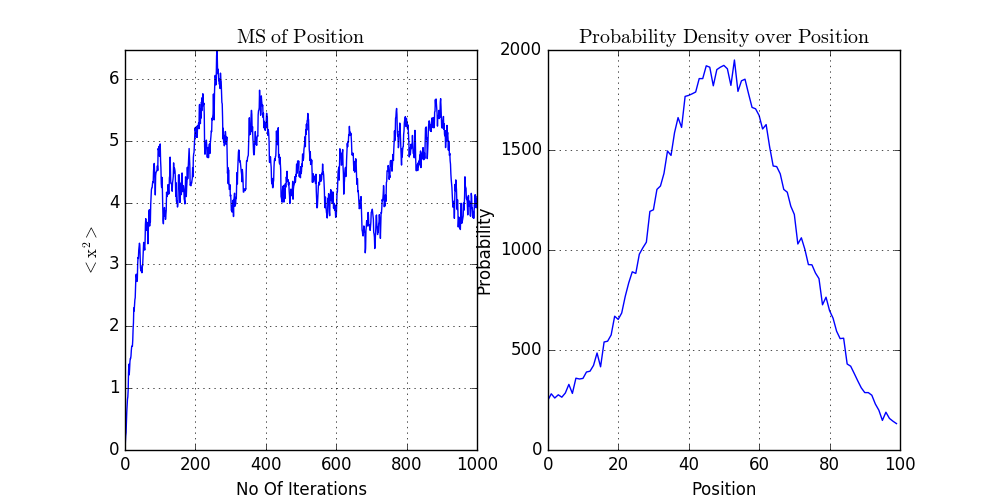
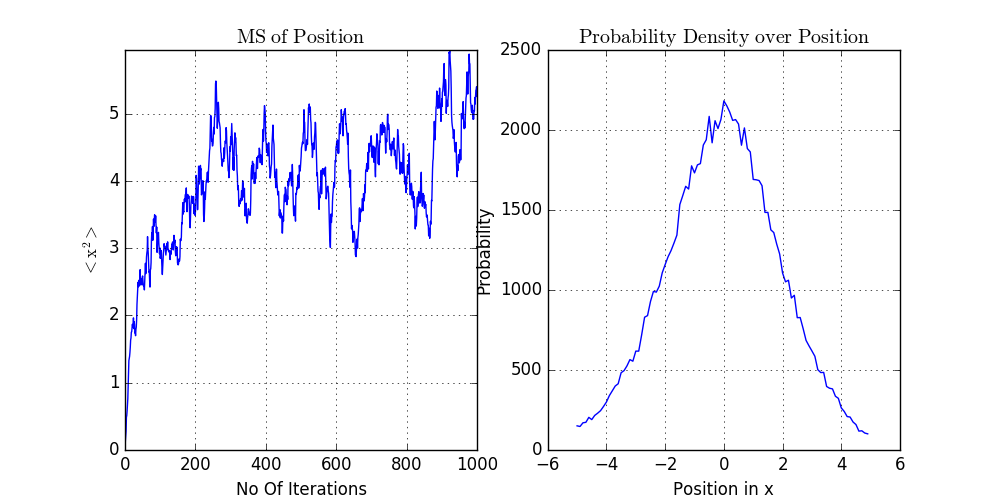
Corrections and Updates

diff --git a/PIMC.py b/PIMC.py
@@ -64,12 +64,12 @@ def render_plots(path,ensemble_pdf,ms):
 
     #Histogram of the probability density
     plt.subplot(fs[1])
-    plt.xlabel('Position')
+    plt.xlabel('Position in x')
     plt.ylabel('Probability')
     plt.title(r'$\mathrm{Probability\ Density\ over\ Position}$')
     #plt.axis([path.x_min, path.x_max, 0, 0.05])
     #plt.hist(ensemble_pdf, normed=True, bins=100)
-    plt.plot(ensemble_pdf)
+    plt.plot((np.arange(path.x_min,path.x_max, 1.0*(path.x_max-path.x_min)/path.n_bins)).tolist(),ensemble_pdf)
     plt.grid(True)
 
     plt.show()

diff --git a/main.py b/main.py
@@ -1,4 +1,4 @@
-from HO_PIMC import *
+from PIMC import *
 
 
 #Initialize
@@ -11,4 +11,5 @@ n_bins = 100
 
 path = Path(M,T,a,x_max,n_bins)
 
-PIMC(nsteps,path)
+if __name__=='__main__':
+    PIMC(nsteps,path)
